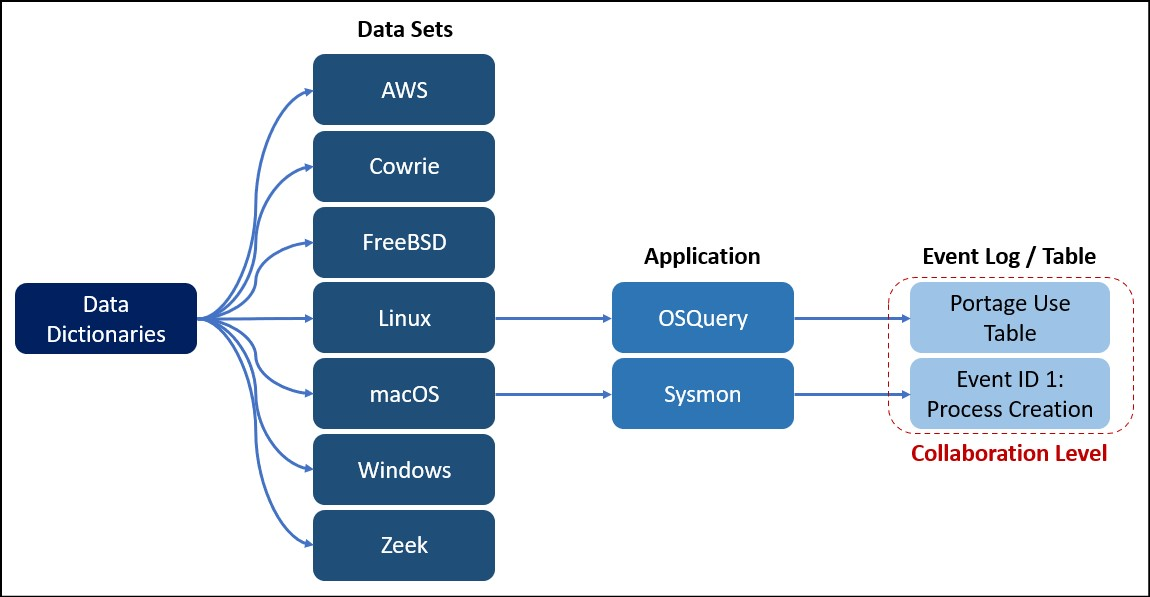
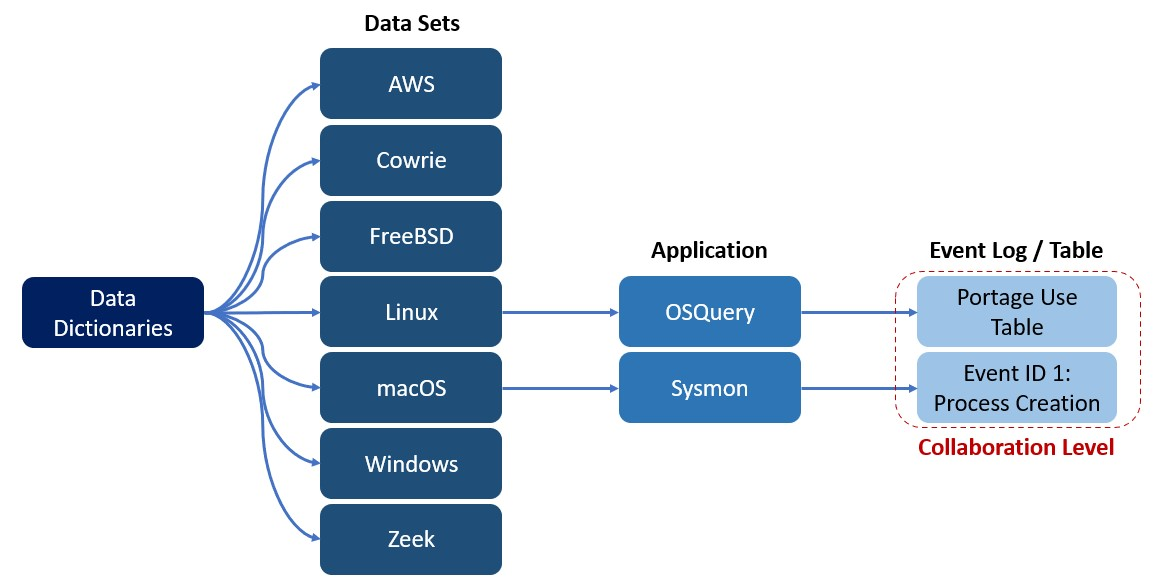
Readme file Image update

diff --git a/README.md b/README.md
@@ -18,7 +18,7 @@ This part of the OSSEM project contains specific information about several secur
 ### a) Level of Detail
 Contributing to the Data Dictionaries piece of OSSEM implies the creation and/or modification of a file containing a description for all data fields of a specific **event log** or **table** that is generated by a tool or application in one or more operating systems.
 
-<img src="resources/images/OSSEM-DD-Collaboration-Level.jpg" width=500>
+<img src="resources/images/OSSEM-DD-Collaboration-Level.jpg" width=800>
 
 ### b) Files Format
 Every security event log or table will be stored in **yaml** format using the **.yml** extension.
